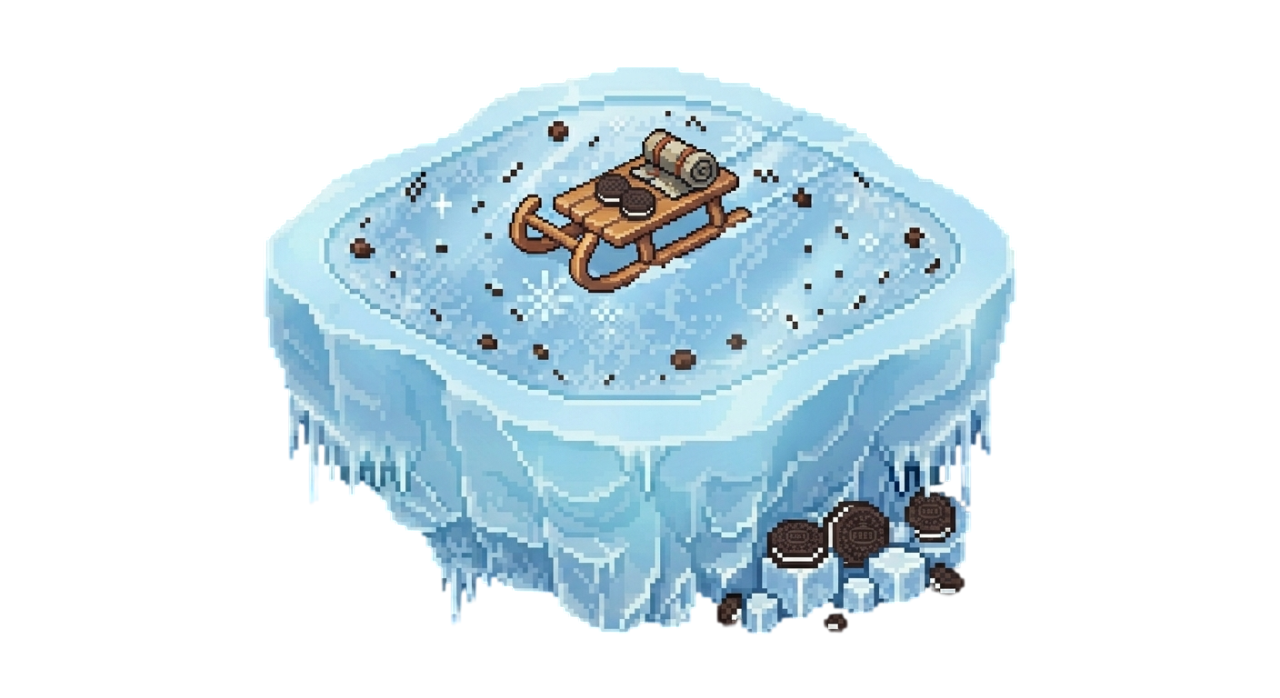
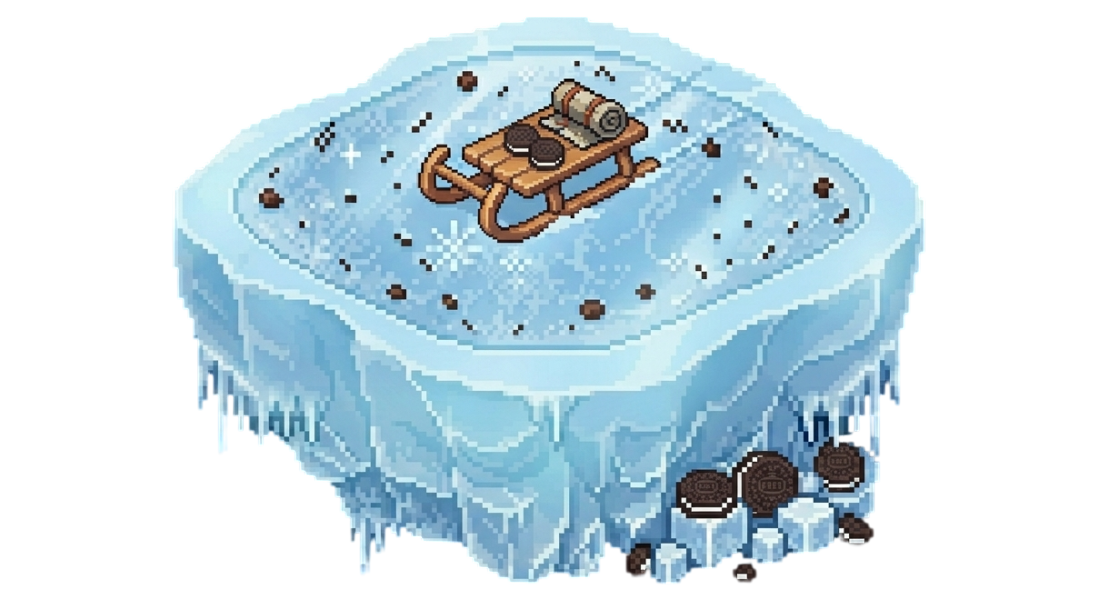
cambios de estetica tablero

diff --git a/Joc_Pingu_Oreo/src/RESOURCES/PantallaJuego.css b/Joc_Pingu_Oreo/src/RESOURCES/PantallaJuego.css
@@ -1,5 +1,8 @@
 .root {
     -fx-font-family: "System";
+    -fx-background-image: url('../imagenes/Tablero.png');
+    -fx-background-size: 100% 100%;
+    -fx-background-repeat: no-repeat;
 }
 
 /* MENU */

diff --git a/Joc_Pingu_Oreo/src/VISTA/PantallaJuego.java b/Joc_Pingu_Oreo/src/VISTA/PantallaJuego.java
@@ -352,8 +352,11 @@ public class PantallaJuego {
 			if (img != null) {
 				ImageView imgView = new ImageView(img);
 				imgView.setPreserveRatio(true);
-				imgView.fitWidthProperty().bind(tablero.widthProperty().divide(COLUMNS).multiply(0.85));
-				imgView.fitHeightProperty().bind(tablero.heightProperty().divide(ROWS).multiply(0.85));
+				// Permitir que el contenedor se encoja rompiendo la dependencia del tamaño de la imagen original
+				celdaContainer.setMinSize(0, 0);
+				
+				imgView.fitWidthProperty().bind(celdaContainer.widthProperty().multiply(1.00));
+				imgView.fitHeightProperty().bind(celdaContainer.heightProperty().multiply(1.00));
 				celdaContainer.getChildren().add(imgView);
 			}
 
